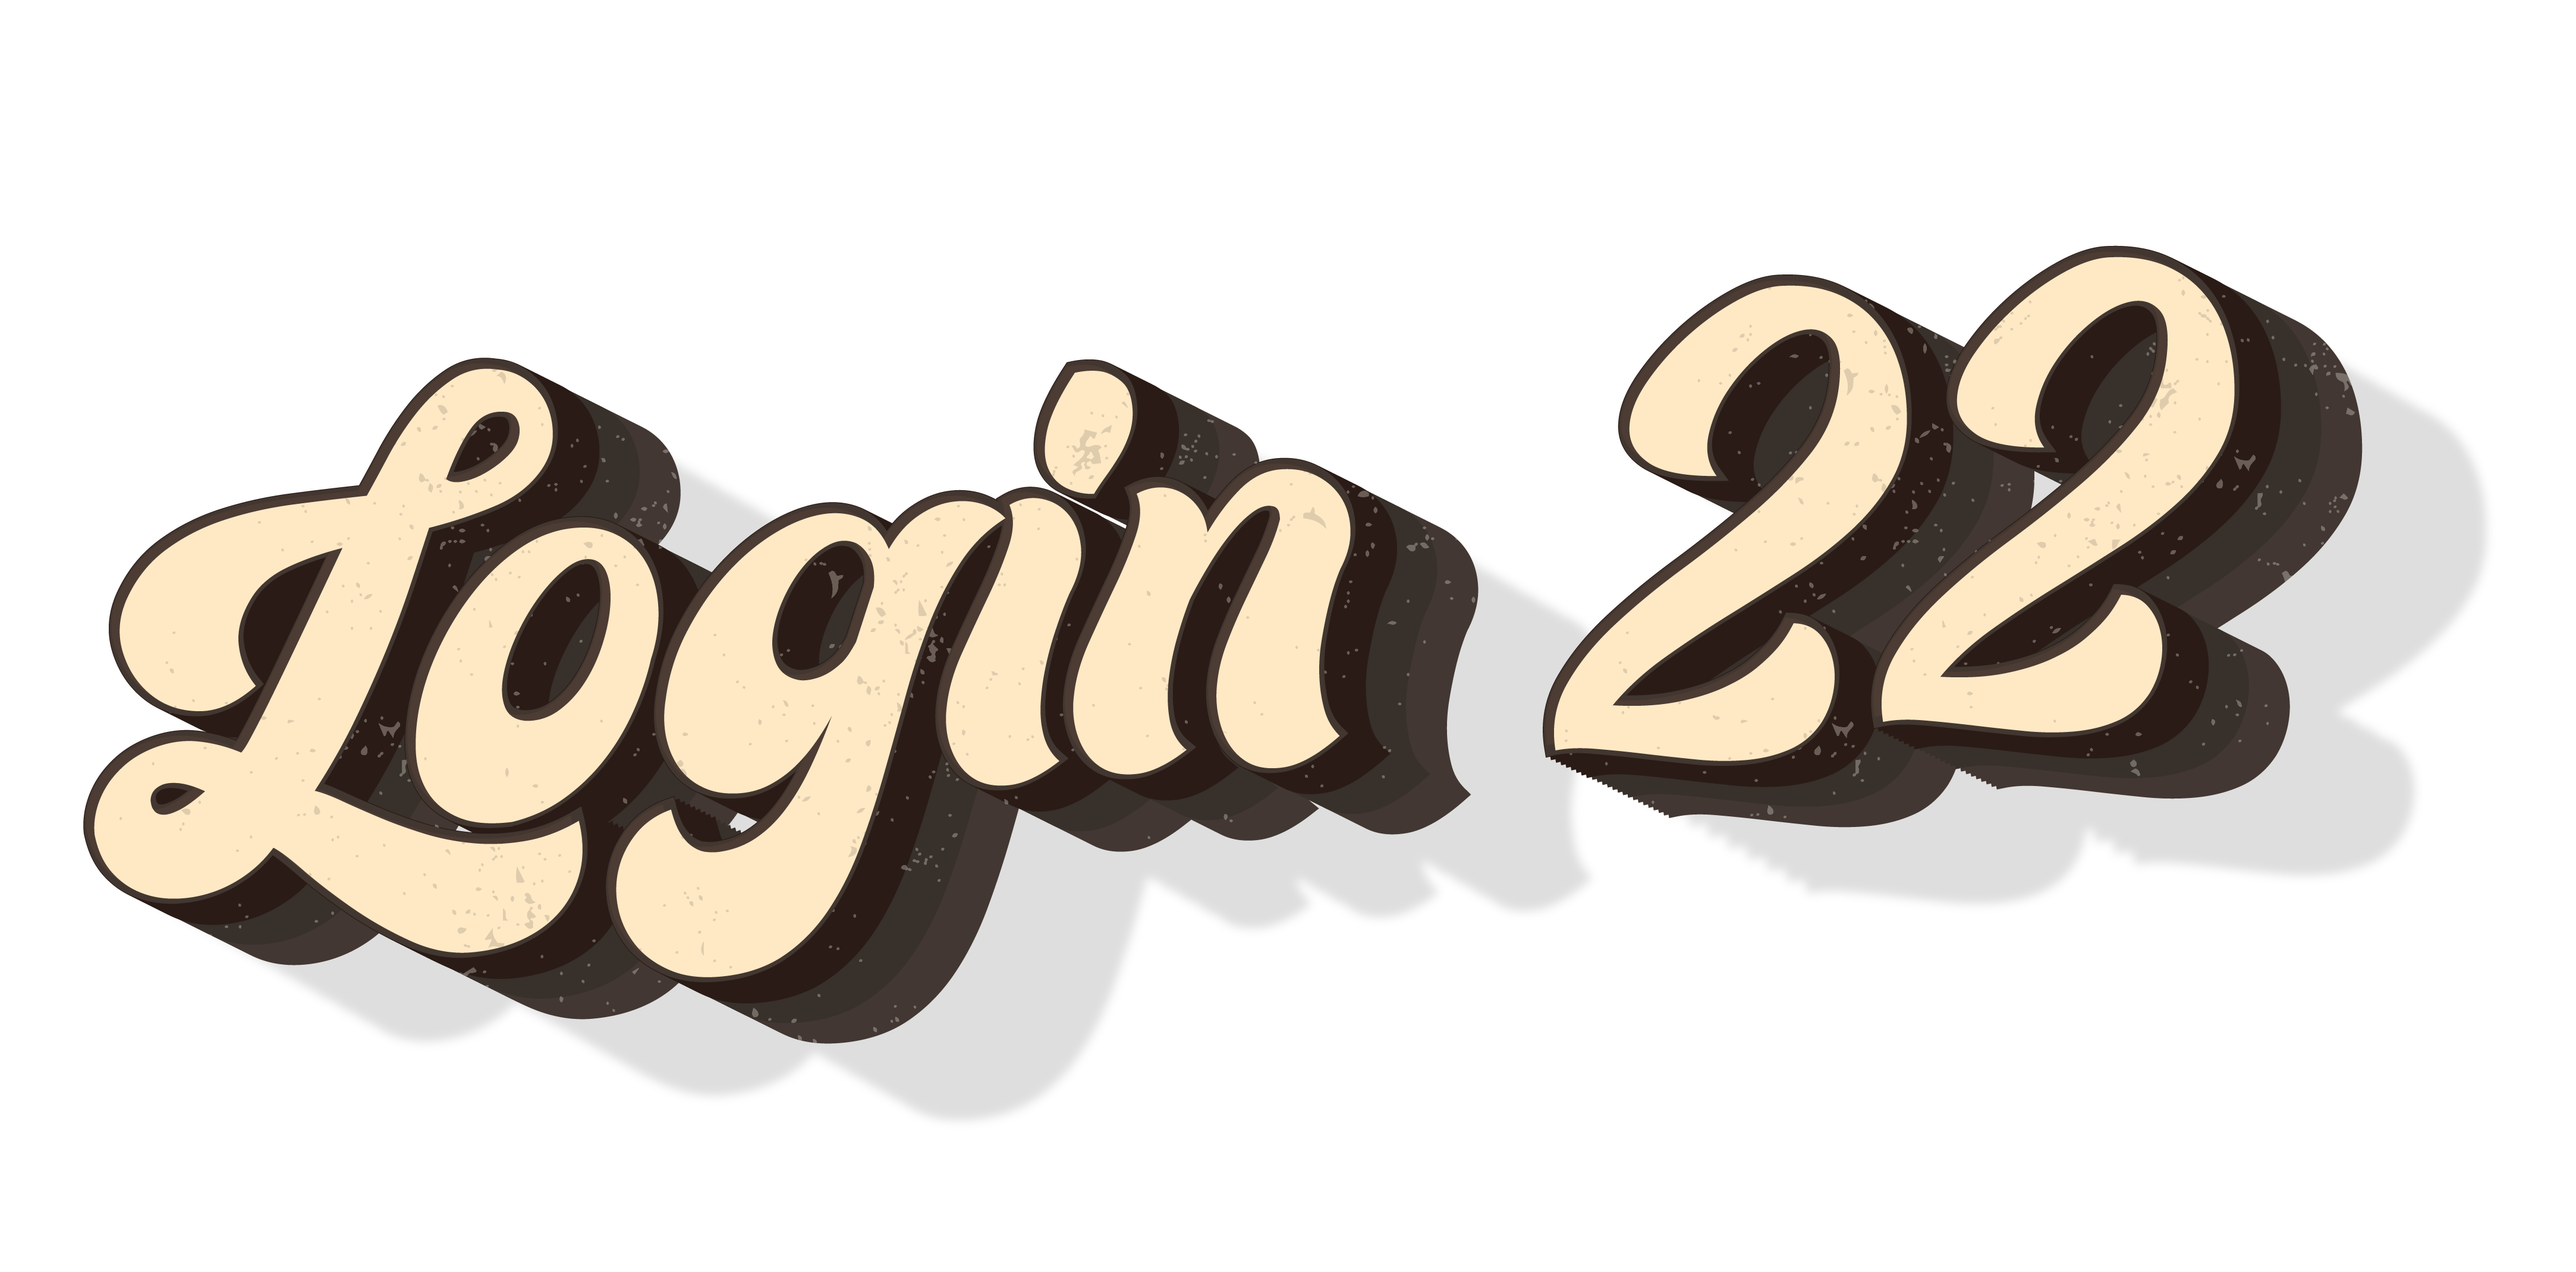
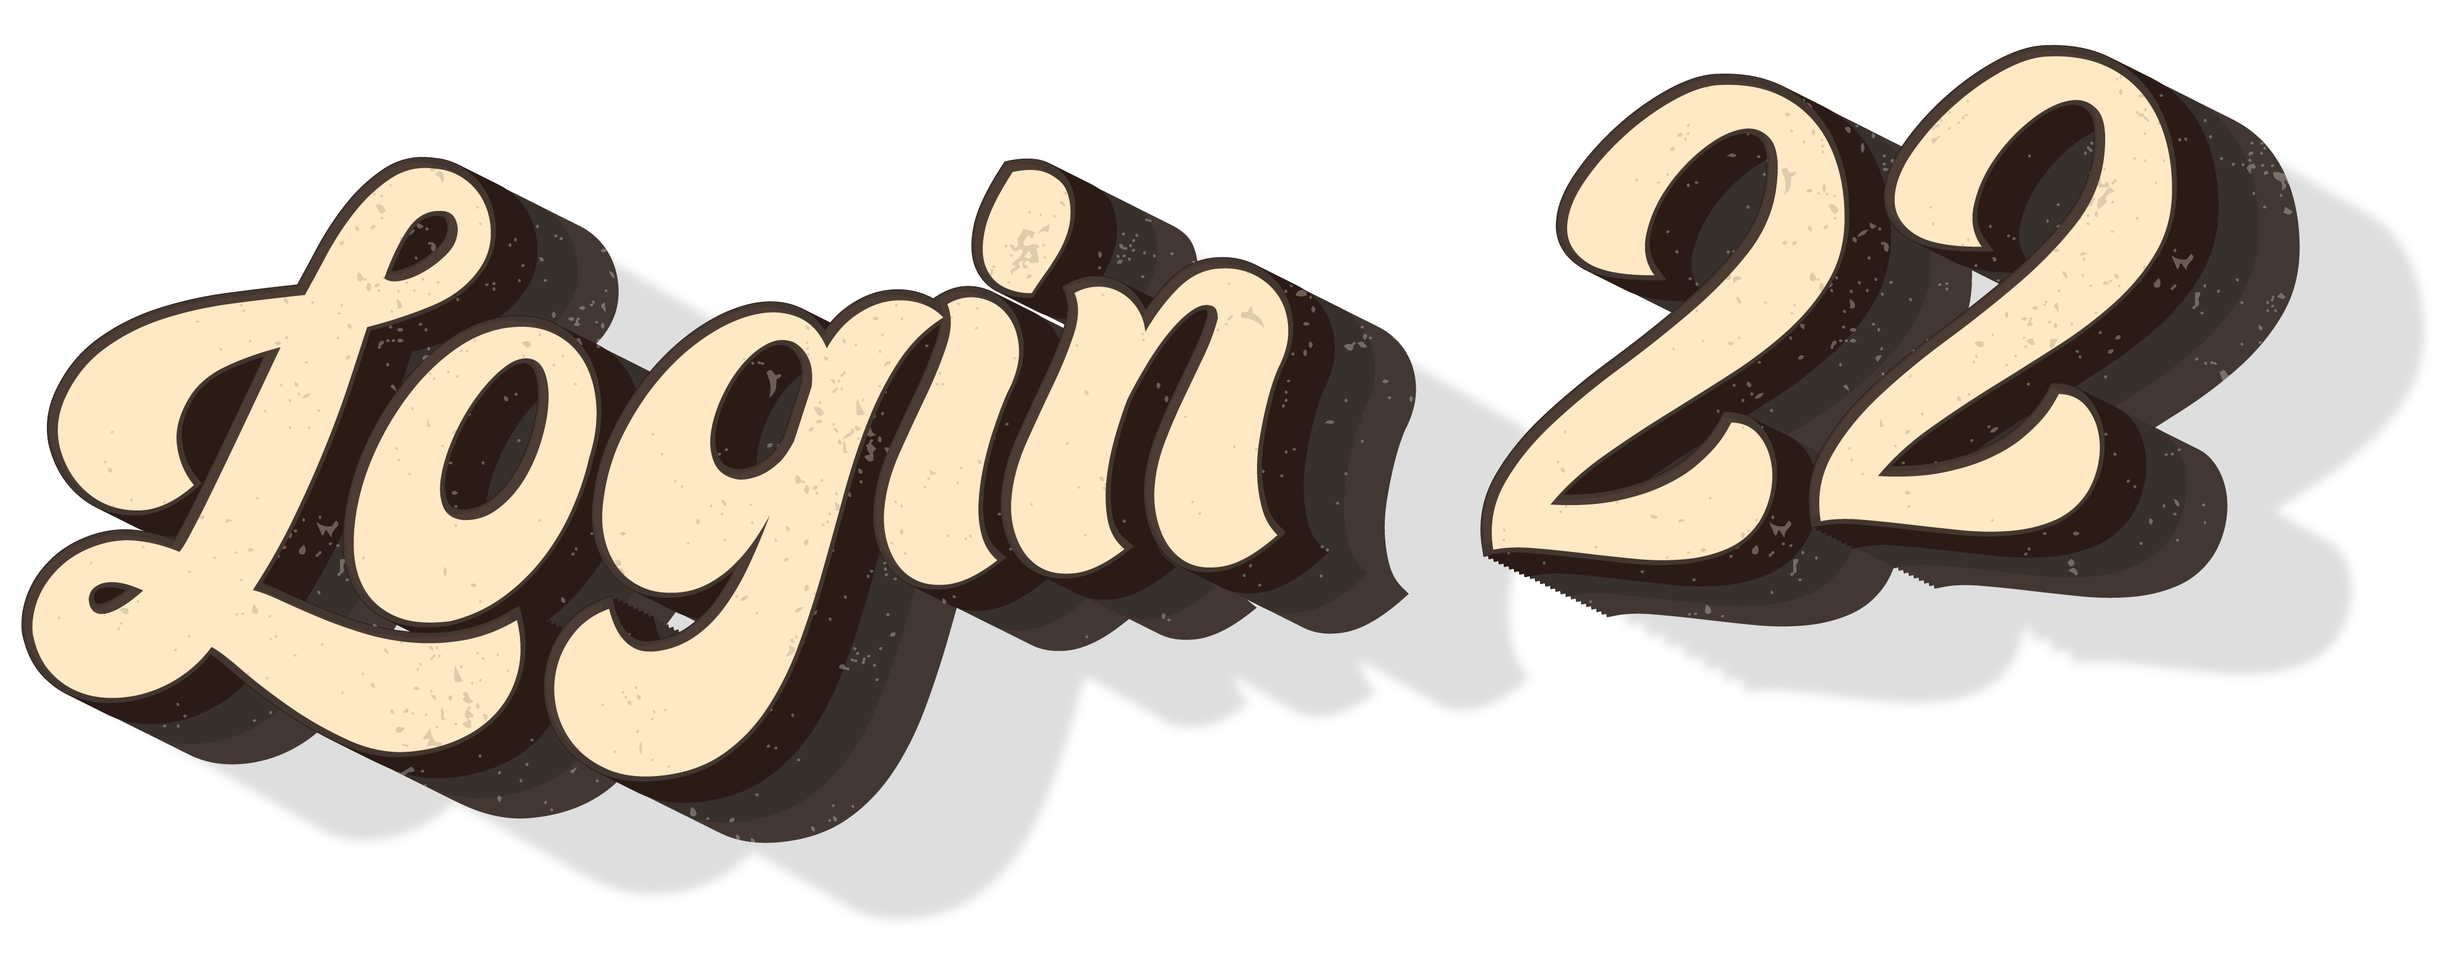
Add files via upload

Changed region(s): [[0.0, 0.0309, 0.9985, 0.9574], [0.4369, 0.6794, 0.6241, 0.7721], [0.4681, 0.6485, 0.4993, 0.6794]]

diff --git a/index.html b/index.html
@@ -66,12 +66,12 @@
 				   target="_blank"><img src="images/facebook logo.png" class="social-media" alt="facebook-logo"></a>
           </div>
             <!--Social Media Links end-->
-          <div class="header-content"><img src="images/LOGIN TITLE.png" height="30%" width="40%" style="position:center" alt="login 22">
+          <div class="header-content"><img src="images/LOGIN TITLE.png" height="60%" style="position:center" alt="login 22">
             <div class="header-content-box">
                 <!--div class="firstline"><span>Login</span>22</div-->
                 <div class="secondline">
                 Let's<b>
-		<span class="txt-rotate" style=color:#291a15 data-period="1200"data-rotate='[ " Go Back in TIME...", " Take a Step Back...", " Go Classic..." ]'> </span>
+		<span class="txt-rotate" style="color:#291a15" data-period="1200" data-rotate='[ " Go Back in TIME...", " Take a Step Back...", " Go Classic..." ]'> </span>
             <span class="slash">||</span></b>
         </div>
 				
@@ -107,16 +107,15 @@
                 <img src="images/abooutt.jpeg" alt="Your Image">
             </div>
             </div>
-    <div class="social-media-links" >
-               <a href="https://www.google.com/maps/place/Christ+college+of+science+and+management/@12.8858699,77.8894991,17z/data=!3m1!4b1!4m5!3m4!1s0x3bae752dd01a4ffb:0x5cf9dc9719b3bed8!8m2!3d12.8858647!4d77.8916878"
-				  target="_blank" style="position:right" ><img src="images/map.png" class="social-media" alt="map-logo"></a></div>
+    <div >
+              <a href="https://www.google.com/maps/place/Christ+college+of+science+and+management/@12.8858699,77.8894991,17z/data=!3m1!4b1!4m5!3m4!1s0x3bae752dd01a4ffb:0x5cf9dc9719b3bed8!8m2!3d12.8858647!4d77.8916878" target="_blank"><img src="images/map.png" alt="map-logo" width="10%" height="10%" style="margin-left: auto; margin-right: auto; display: block"></a></div>
             </div>
             <!--services start-->            <!--services content end-->
             <!--services end-->
     <!--copyright-section You Can Remove After Downloading-->
             <div class="footer">
              <div class="footer-text">
-                 <img src="./images/copyright.png" alt="copyright-img" class="images" height="14px"> Department of CS,CCSM
+                 <img src="./images/copyright.png" alt="copyright-img" class="images" height="14px"> Department of CS, CCSM
              </div>
             </div>
     <!--copyright-section-->
@@ -183,19 +182,7 @@
                     </div></a>
 					</div>  
                 <div class="blogs">
-                    <a href="#">
-                    <div class="img">
-                        <img src="images/post-six.jpg" alt="blog-six">
-                        <div class="blog-date">TECH</div>
-                    </div>
-                    <div class="blog-text">
-                        <h3>Tech Exibition</h3>
-                        <p>Lorem ipsum dolor sit amet consectetur adipisicing elit. Explicabo tempora dolorum fuga ratione, unde, 
-                            ex quaerat iste numquam nemo nihil nobis rem sint quia recusandae dignissimos quos ut rerum nam.</p>
-                    </div></a>
-                </div>  
-                <div class="blogs">
-                    <a href="#">
+                    <a href="#" >
                     <div class="img">
                         <img src="images/nfs.jpg" alt="blog-six">
                         <div class="blog-date">NON-TECH</div>
@@ -205,17 +192,7 @@
                         <p>NFS - Most wanted is a series of races against a driver in the most wanted list. The game focuses on Street racing-oriented gameplay involving a selection of event.</p>
                     </div></a>
 					</div>  
-                <div class="blogs">
-                    <a href="#">
-                    <div class="img">
-                        <img src="images/carnival.jpg" alt="blog-five">
-                        <div class="blog-date">NON-TECH</div>
-                    </div>
-                    <div class="blog-text">
-                        <h3>Carnival Games</h3>
-                        <p>Carnival games is a collection of fun exiciting events where participants compete to win prizes.</p>
-                    </div></a>
-                </div>  
+                 
                 <div class="blogs">
                     <a href="#">
                     <div class="img">
@@ -236,7 +213,18 @@
                     <div class="blog-text">
                         <h3>Call Of Duty:Mobile</h3>
                         <p></p>
+						</div></a></div>
+					<div class="blogs">
+                    <a href="#">
+                    <div class="img">
+                        <img src="images/carnival.jpg" alt="blog-five">
+                        <div class="blog-date">NON-TECH</div>
+                    </div>
+                    <div class="blog-text">
+                        <h3>Carnival Games</h3>
+                        <p>Carnival games is a collection of fun exiciting events where participants compete to win prizes.</p>
                     </div></a>
+                </div> 
 					<div class="portfolio-text">
 				 <a href="https://forms.gle/BiQNXXg96SvcwKdm6" target="_blank"><button><span class="index"><b>REGISTER NOW</b><i class="gg-arrow-right"></i></span></button></a></div>
                 </div>        

diff --git a/css/index.css b/css/index.css
@@ -44,7 +44,6 @@ input[type=number] {
   }
   #loader{
 	  display: flex;
-	  
       align-items: center;
       justify-content: center;
       flex-direction: column;
@@ -54,7 +53,7 @@ input[type=number] {
       font-family: poppins;
       background-color:#0E0D0D;
       color: whitesmoke;
-      font-size: 70px;
+      font-size: 5vw;
       width: 100%;
   }
 body{
@@ -70,8 +69,8 @@ body{
 	height: 100vh;
     width: 100%;;
     overflow: hidden;
-	transition-delay: 4s;
-    animation: scale 4s ease;
+	transition-delay: 3s;
+    animation: scale 1.5s ease;
     position:relative;
     display: block;
 }
@@ -272,10 +271,12 @@ body{
 .header-content .secondline{
     z-index: 2;
 	font-family:aladin;
-    font-size: 20px;
+    font-size: 3vw;
     padding-top:20px ;
     font-weight:500;
     color: rgb(255, 255, 255,.8);
+	-webkit-text-stroke-width:2px;
+	
 }
 .slash{
     animation-name: animateslash;
@@ -316,8 +317,7 @@ body{
 }
 .social-media{
     color: white;
-    width:  21px;
-    ;
+    width:30px;
     opacity: .6;
     margin: 8px;
     transition: all .4s ease;
@@ -815,7 +815,7 @@ padding-bottom: 40px;
     opacity: 1;
 	position: fixed;
 	right:5%;
-	bottom: 5%;
+	bottom:5%;
     background: transparent;
     padding-top: 10px;
     padding-bottom: 10px;

diff --git a/js/index.js b/js/index.js
@@ -1,7 +1,7 @@
 $(window).on('load',function(){
   gsap.to('#loader',1,{y:"-100%"});
   gsap.to('#loader',1,{opacity:0});
-  gsap.to('#loader',0,{display:"none",delay:20});
+  gsap.to('#loader',0,{display:"none",delay:50});
   gsap.to('#header',0,{display:"block",delay:1})
   gsap.to('#navigation-content',0,{display:"none"});
   gsap.to('#navigation-content',0,{display:"flex",delay:3});
